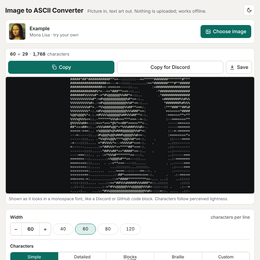
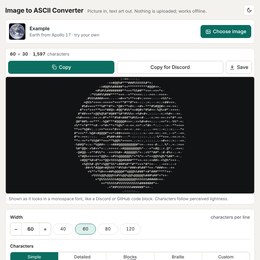
Image to ASCII Converter: Blue Marble example, sharpening, quieter notices
Claude-Session: https://claude.ai/code/session_01PtGPtXuQrC5ogY35rTvMgj

Changed region(s): [[0.2462, 0.2769, 0.7385, 0.7692], [0.0308, 0.0615, 0.4, 0.1538], [0.1538, 0.1846, 0.1846, 0.2154]]

diff --git a/tools/image_to_ascii_converter.html b/tools/image_to_ascii_converter.html
@@ -14,7 +14,7 @@ try { var t = localStorage.getItem('theme'); if (t === 'dark' || t === 'light') 
 :root {
   --page: #f3f2ee; --card: #ffffff; --line: #dedcd5; --line-strong: #c9c6bc;
   --text: #1c1d1f; --muted: #62646a; --accent: #0b6e61; --accent-ink: #ffffff; --accent-soft: #dcefeb;
-  --err: #b42318; --err-soft: #fdecea; --flash: #ffe9a8;
+  --err: #b42318; --err-soft: #fdecea; --flash: #ffe9a8; --warn: #9a5b00;
   --art-dark: #111315; --art-dark-ink: #e9e6dc; --art-light: #ffffff; --art-light-ink: #17191c;
   --mono: ui-monospace, "SF Mono", Menlo, Consolas, "DejaVu Sans Mono", "Liberation Mono", monospace;
   color-scheme: light;
@@ -23,7 +23,7 @@ try { var t = localStorage.getItem('theme'); if (t === 'dark' || t === 'light') 
   :root:not([data-theme="light"]) {
     --page: #151618; --card: #1d1f22; --line: #2e3135; --line-strong: #43474d;
     --text: #e8e8e6; --muted: #a2a5ab; --accent: #4fc7b2; --accent-ink: #08201c; --accent-soft: #173832;
-    --err: #ff8a7a; --err-soft: #3a1d1a; --flash: #5c4a14;
+    --err: #ff8a7a; --err-soft: #3a1d1a; --flash: #5c4a14; --warn: #f0b45a;
     --art-dark: #0b0c0d; --art-light: #f7f6f2;
     color-scheme: dark;
   }
@@ -31,7 +31,7 @@ try { var t = localStorage.getItem('theme'); if (t === 'dark' || t === 'light') 
 :root[data-theme="dark"] {
   --page: #151618; --card: #1d1f22; --line: #2e3135; --line-strong: #43474d;
   --text: #e8e8e6; --muted: #a2a5ab; --accent: #4fc7b2; --accent-ink: #08201c; --accent-soft: #173832;
-  --err: #ff8a7a; --err-soft: #3a1d1a; --flash: #5c4a14;
+  --err: #ff8a7a; --err-soft: #3a1d1a; --flash: #5c4a14; --warn: #f0b45a;
   --art-dark: #0b0c0d; --art-light: #f7f6f2;
   color-scheme: dark;
 }
@@ -96,7 +96,11 @@ h1 { font-size: 20px; line-height: 1.2; margin: 0; letter-spacing: -0.01em; }
 .method { font-size: 12.5px; color: var(--muted); padding: 6px 10px 7px; margin: 0; border-top: 1px solid var(--line); }
 .hint { margin: 0; padding: 8px 10px; border-bottom: 1px solid var(--line); display: flex; gap: 10px; align-items: center; justify-content: space-between; background: var(--flash); color: var(--text); font-size: 13.5px; }
 .hint[hidden] { display: none; }
-.dims .warn { color: var(--err); }
+.dims .warn { color: var(--warn); }
+.hint.quiet { background: none; color: var(--muted); padding: 5px 10px; }
+.hint.quiet .btn { min-height: 28px; padding: 0 10px; font-size: 13px; }
+.ws { display: none; }
+@media (max-width: 420px) { .wl { display: none; } .ws { display: inline; } }
 .fit { border: 1px solid var(--line-strong); background: var(--card); border-radius: 6px; padding: 1px 8px; cursor: pointer; font-size: 13px; color: var(--accent); font-weight: 600; }
 .bg-help { padding: 0 0 10px; margin-top: -4px; border-bottom: 1px solid var(--line); }
 .row.two { border-bottom: 0; padding-bottom: 8px; }
@@ -181,7 +185,7 @@ details[open] summary::after { transform: rotate(-135deg); margin-top: 8px; }
       <img class="thumb" id="thumb" alt="">
       <div class="src-text">
         <div class="src-name" id="srcName">Example</div>
-        <div class="src-meta" id="srcMeta">Mona Lisa · try your own</div>
+        <div class="src-meta" id="srcMeta">Earth from Apollo 17 · try your own</div>
       </div>
       <button class="btn primary" id="pickBtn" type="button"><svg viewBox="0 0 24 24" fill="none" stroke="currentColor" stroke-width="2"><rect x="3" y="4" width="18" height="16" rx="2"/><circle cx="9" cy="10" r="2"/><path d="M21 16l-5-5-9 9"/></svg>Choose image</button>
       <input type="file" id="file" accept="image/*" hidden>
@@ -191,7 +195,7 @@ details[open] summary::after { transform: rotate(-135deg); margin-top: 8px; }
 
     <section class="result card" aria-label="ASCII art">
       <div class="bar">
-        <div class="dims" id="dims"><b id="dCols">80</b> × <b id="dRows">25</b> · <b id="dChars">2,025</b> characters<span id="discord" hidden> · <span class="warn">over Discord’s limit</span> <button type="button" class="fit" id="fitBtn">Fit</button></span></div>
+        <div class="dims" id="dims"><b id="dCols">80</b> × <b id="dRows">25</b> · <b id="dChars">2,025</b> <span class="wl">characters</span><span class="ws">chars</span><span id="discord" hidden> · <span class="warn">over Discord’s limit</span> <button type="button" class="fit" id="fitBtn">Fit</button></span></div>
         <button class="btn primary" id="copyBtn" type="button"><svg viewBox="0 0 24 24" fill="none" stroke="currentColor" stroke-width="2"><rect x="9" y="9" width="12" height="12" rx="2"/><path d="M5 15V5a2 2 0 0 1 2-2h10"/></svg>Copy</button>
         <button class="btn" id="fenceBtn" type="button" title="Copies it wrapped in ``` fences, so Discord, GitHub and Slack show it in a monospace font with its spacing"><svg viewBox="0 0 24 24" fill="none" stroke="currentColor" stroke-width="2"><path d="M8 6l-6 6 6 6M16 6l6 6-6 6"/></svg><span class="long">Copy for Discord</span><span class="short">Copy for Discord</span></button>
         <div class="save">
@@ -261,15 +265,17 @@ details[open] summary::after { transform: rotate(-135deg); margin-top: 8px; }
           <div class="slider"><input type="range" id="contrast" min="-100" max="100" step="1" value="0"><output id="contrastOut" for="contrast">0</output></div>
         </div>
         <div class="sub-row"><label class="check"><input type="checkbox" id="invert">Invert light and dark</label></div>
+        <div class="sub-row"><label class="check"><input type="checkbox" id="sharpen" checked>Sharpen features (local contrast)</label></div>
         <div class="sub-row"><label class="check"><input type="checkbox" id="auto" checked>Stretch to full range (auto levels)</label></div>
         <div class="sub-row" id="ditherRow"><label class="check"><input type="checkbox" id="dither" checked>Dithering (braille: dot patterns for greys)</label></div>
         <div class="sub-row">
-          <div class="lbl" id="colLbl">Colour <span class="v">preview, .png and .html; copied text has none</span></div>
+          <div class="lbl" id="colLbl">Colour</div>
           <div class="seg" role="radiogroup" aria-labelledby="colLbl" id="colSeg">
             <button type="button" role="radio" data-v="none" aria-checked="true">None</button>
             <button type="button" role="radio" data-v="colour" aria-checked="false">Original</button>
             <button type="button" role="radio" data-v="gray" aria-checked="false">Grey</button>
           </div>
+          <div class="src-meta" style="margin-top:6px">Shown in the preview and in .png and .html files. Copied text is always plain.</div>
         </div>
         <div class="sub-row">
           <div class="lbl" id="zoomLbl">Preview size</div>
@@ -431,6 +437,7 @@ var ASCII = (function () {
       contrast: clampNum(o.contrast, -100, 100, 0),
       brightness: clampNum(o.brightness, -100, 100, 0),
       dither: o.dither !== false,
+      sharpen: clampNum(o.sharpen, 0, 2, 0),
       invert: o.invert === true,
       colour: COLOURS.indexOf(o.colour) >= 0 ? o.colour : 'none',
       custom: typeof o.custom === 'string' ? o.custom.slice(0, 200) : ' .:-=+*#%@',
@@ -452,6 +459,7 @@ var ASCII = (function () {
     var pl = resample(planes(rgba, w, h, wantColour), w, h, g.dw, g.dh);
     var n = g.dw * g.dh, L = new Float32Array(n), cov = pl[1];
     for (var i = 0; i < n; i++) L[i] = cov[i] > 1e-6 ? lstar(pl[0][i] / cov[i]) : 0;
+    if (o.sharpen > 0) L = unsharp(L, g.dw, g.dh, o.sharpen, o.style === 'braille' ? 2 : 1);
     var range = o.auto ? autoRange(L, cov) : null;
     var f = Math.pow(2, o.contrast / 50), b = o.brightness / 100;
     var ink = new Float32Array(n);
@@ -487,6 +495,21 @@ var ASCII = (function () {
   }
 
   function isBlank(line) { return /^[ \u2800]*$/.test(line); }
+
+  // Local contrast (an unsharp mask on the lightness grid): L + amount * (L - box blur of L). A character
+  // cell is coarse, so features of a face (eyes, mouth, the edge of the hair) are only a little darker
+  // than what surrounds them and come out as the same glyph; this pulls them apart without changing flat areas.
+  function unsharp(L, W, H, amount, r) {
+    var out = new Float32Array(L.length);
+    for (var y = 0; y < H; y++) for (var x = 0; x < W; x++) {
+      var s = 0, n = 0;
+      for (var dy = -r; dy <= r; dy++) { var yy = y + dy; if (yy < 0 || yy >= H) continue;
+        for (var dx = -r * 2; dx <= r * 2; dx++) { var xx = x + dx; if (xx < 0 || xx >= W) continue; s += L[yy * W + xx]; n++; } }
+      var v = L[y * W + x] + amount * (L[y * W + x] - s / n);
+      out[y * W + x] = v < 0 ? 0 : v > 1 ? 1 : v;
+    }
+    return out;
+  }
 
   function rampLines(ink, g, ramp) {
     var n = ramp.length, lines = [];
@@ -636,6 +659,8 @@ if (typeof module !== 'undefined') module.exports = ASCII;
   var THUMB = 104;
 
   var opts = ASCII.loadSettings(lsGet(SETTINGS_KEY));
+  // Sharpening is on unless someone turned it off.
+  try { if (JSON.parse(lsGet(SETTINGS_KEY) || '{}').sharpen === undefined) opts.sharpen = 0.8; } catch (e) { opts.sharpen = 0.8; }
   var zoom = (function () { try { return JSON.parse(lsGet(SETTINGS_KEY) || '{}').zoom === 'actual' ? 'actual' : 'fit'; } catch (e) { return 'fit'; } })();
   var image = null;          // {rgba, w, h, name, origW, origH, thumb, sample}
   var result = null, lastDims = {};
@@ -648,10 +673,10 @@ if (typeof module !== 'undefined') module.exports = ASCII;
   function fmt(n) { return n.toLocaleString('en-US'); }
 
   // ---------- the example picture ----------
-  // Leonardo da Vinci, Mona Lisa (c. 1503-1519), public domain; face crop of the C2RMF photograph on
-  // Wikimedia Commons (PD-Art), 270 x 260 JPEG, so at the default 60 columns it fits one Discord message. A face is what people bring, and this one
-  // everybody recognises, so it shows at a glance whether the art is right.
[1 lines of base64/hex data omitted]
+  // "The Blue Marble", NASA / Apollo 17 crew, 7 December 1972 (AS17-148-22727), public domain as a work of
+  // NASA; from Wikimedia Commons, cropped to the globe, 256 x 258 JPEG. A bright, round, known subject on
+  // black reads at a glance at any width, and at the default 60 columns it fits one Discord message.
[1 lines of base64/hex data omitted]
   function loadSample(done) {
     var img = new Image();
     img.onload = function () { setImage(toWorking(img, img.naturalWidth, img.naturalHeight, 'Example', true), false); done(); };
@@ -731,13 +756,12 @@ if (typeof module !== 'undefined') module.exports = ASCII;
     }
     $('thumb').src = im.thumb;
     $('srcName').textContent = im.sample ? 'Example' : im.name;
-    $('srcMeta').textContent = im.sample ? 'Mona Lisa · try your own' : fmt(im.origW) + ' × ' + fmt(im.origH) + ' px';
+    $('srcMeta').textContent = im.sample ? 'Earth from Apollo 17 · try your own' : fmt(im.origW) + ' × ' + fmt(im.origH) + ' px';
     convert();
     if (remember) {
       pushHistory();
       saveImage(im);
       reveal(document.querySelector('.result'));
-      if (prev && !prev.sample) toast('New image loaded.', true);
     }
   }
 
@@ -777,8 +801,8 @@ if (typeof module !== 'undefined') module.exports = ASCII;
       updateMethod();
       var tone = result.bg === 'dark' ? 'dark' : 'light';
       var h = result.faint ? 'Your picture is ' + tone + ' on a transparent background, so it barely shows on ' + tone + '.'
-        : autoInverted && opts.invert ? 'Inverted so your ' + (tone === 'dark' ? 'dark' : 'light') + ' shape shows on a ' + tone + ' background.' : '';
-      $('hint').hidden = !h; $('hintText').textContent = h; $('hintBtn').textContent = opts.invert ? 'Undo invert' : 'Invert';
+        : autoInverted && opts.invert ? 'Inverted so your shape shows on ' + tone + '.' : '';
+      $('hint').hidden = !h; $('hint').classList.toggle('quiet', !result.faint); $('hintText').textContent = h; $('hintBtn').textContent = opts.invert ? 'Undo invert' : 'Invert';
       announce('Art updated: ' + result.cols + ' by ' + result.rows + ' characters.');
     });
   }
@@ -875,6 +899,7 @@ if (typeof module !== 'undefined') module.exports = ASCII;
     $('customWrap').hidden = opts.style !== 'custom';
     if ($('custom').value !== opts.custom) $('custom').value = opts.custom;
     $('ditherRow').hidden = opts.style !== 'braille';
+    $('sharpen').checked = opts.sharpen > 0;
     $('invert').checked = opts.invert; $('auto').checked = opts.auto; $('dither').checked = opts.dither;
     $('bright').value = opts.brightness; $('brightOut').textContent = signed(opts.brightness);
     $('contrast').value = opts.contrast; $('contrastOut').textContent = signed(opts.contrast);
@@ -948,6 +973,7 @@ if (typeof module !== 'undefined') module.exports = ASCII;
   $('fitBtn').addEventListener('click', function () { change({cols: suggestWidth()}); toast('Width set to ' + opts.cols + ': fits one Discord message as a code block.'); });
   $('hintBtn').addEventListener('click', function () { var was = autoInverted; change({invert: !opts.invert}); autoInverted = was; convert(); });
   $('invert').addEventListener('change', function () { autoInverted = false; change({invert: this.checked}); });
+  $('sharpen').addEventListener('change', function () { change({sharpen: this.checked ? 0.8 : 0}); });
   $('auto').addEventListener('change', function () { change({auto: this.checked}); });
   $('dither').addEventListener('change', function () { change({dither: this.checked}); });
   $('bright').addEventListener('input', function () { change({brightness: +this.value}); });
@@ -958,7 +984,7 @@ if (typeof module !== 'undefined') module.exports = ASCII;
   $('resetBtn').addEventListener('click', function () {
     pushHistory();
     zoom = 'fit';
-    opts = ASCII.options({});
+    opts = ASCII.options({sharpen: 0.8});
     persist(); syncControls(); convert(); pushHistory();
     toast('Settings reset.', true);
   });
